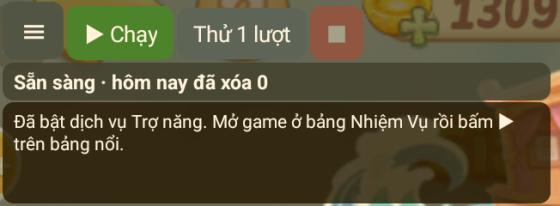
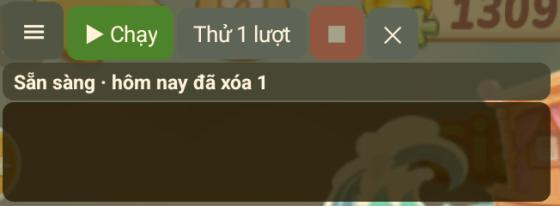
Bảng nổi: nút ✕ để đóng, nút Hiện bảng nổi trong app để mở lại
Bảng nổi hiện đè lên mọi màn hình, kể cả khi đã thoát game. Nút ✕ đóng nó (dừng bot
nếu đang chạy, vì bảng nổi giữ màn hình sáng cho bot); trạng thái đóng được nhớ qua các
lần dịch vụ khởi động lại. Mở lại bằng nút Hiện bảng nổi ở đầu màn hình chính của app.
Trang hướng dẫn cập nhật theo.

diff --git a/android/app/src/main/java/vn/hoavien/auto/BotService.kt b/android/app/src/main/java/vn/hoavien/auto/BotService.kt
@@ -87,9 +87,10 @@ class BotService : AccessibilityService() {
         bot = Bot(this)
         probes = Probes(this)
         overlay = Overlay(this).also { it.show() }
+        applyOverlayVisibility()
         instance = this
         AppLog.i("Đã bật dịch vụ Trợ năng. Mở game ở bảng Nhiệm Vụ rồi bấm ▶ trên bảng nổi.")
-        if (prefs.running) {
+        if (prefs.running && !prefs.overlayClosed) {
             AppLog.i("Tiếp tục chạy (dịch vụ vừa khởi động lại).")
             startBot()
         } else {
@@ -137,7 +138,8 @@ class BotService : AccessibilityService() {
             main.post {
                 if (job === j) {
                     onJobChanged(null)
-                    BotStatus.set("Đã dừng · hôm nay đã xóa ${prefs.deletedToday()}")
+                    val what = if (prefs.overlayClosed) "Bảng nổi đã đóng" else "Đã dừng"
+                    BotStatus.set("$what · hôm nay đã xóa ${prefs.deletedToday()}")
                 }
             }
         }
@@ -185,9 +187,41 @@ class BotService : AccessibilityService() {
         AppLog.i("Đã tắt dịch vụ Trợ năng.")
     }
 
-    /** Ẩn bảng nổi khi màn hình chính của app đang mở (để không che nội dung), hiện lại khi rời đi. */
-    fun setOverlayVisible(visible: Boolean) {
-        overlay?.setVisible(visible)
+    private var appScreenOpen = false       // màn hình chính của app đang mở: ẩn bảng nổi để không che nội dung
+    private var overlayTempHidden = false   // ẩn tạm (bài thử kiểm tra bảng nổi có lọt vào ảnh chụp không)
+
+    private fun applyOverlayVisibility() {
+        overlay?.setVisible(!prefs.overlayClosed && !appScreenOpen && !overlayTempHidden)
+    }
+
+    fun setAppScreenOpen(open: Boolean) {
+        appScreenOpen = open
+        applyOverlayVisibility()
+    }
+
+    fun setOverlayTempHidden(hidden: Boolean) {
+        overlayTempHidden = hidden
+        applyOverlayVisibility()
+    }
+
+    /** Nút ✕: đóng bảng nổi. Bảng nổi giữ màn hình sáng cho bot nên đóng nó thì dừng bot luôn. */
+    fun closeOverlay() {
+        if (job?.isActive == true) {
+            stopJob()
+            AppLog.i("Đã đóng bảng nổi và dừng bot. Mở lại bằng nút Hiện bảng nổi trong app.")
+        } else {
+            AppLog.i("Đã đóng bảng nổi. Mở lại bằng nút Hiện bảng nổi trong app.")
+        }
+        prefs.overlayClosed = true
+        applyOverlayVisibility()
+        BotStatus.set("Bảng nổi đã đóng · hôm nay đã xóa ${prefs.deletedToday()}")
+    }
+
+    /** Nút Hiện bảng nổi trong app. */
+    fun reopenOverlay() {
+        prefs.overlayClosed = false
+        applyOverlayVisibility()
+        BotStatus.set("Sẵn sàng · hôm nay đã xóa ${prefs.deletedToday()}")
     }
 
     /** Vùng nút ≡ của bảng nổi trên màn hình, để kiểm tra bảng nổi có lọt vào ảnh chụp không. */

diff --git a/android/app/src/main/java/vn/hoavien/auto/MainActivity.kt b/android/app/src/main/java/vn/hoavien/auto/MainActivity.kt
@@ -49,6 +49,11 @@ class MainActivity : Activity() {
             startActivity(Intent(Settings.ACTION_APPLICATION_DETAILS_SETTINGS, Uri.fromParts("package", packageName, null)))
         }
         findViewById<View>(R.id.allowNotify).setOnClickListener { askNotifications() }
+        findViewById<View>(R.id.reopenOverlay).setOnClickListener {
+            BotService.instance?.reopenOverlay()
+            Toast.makeText(this, "Bảng nổi sẽ hiện khi bạn rời màn hình này", Toast.LENGTH_SHORT).show()
+            showSteps()
+        }
         findViewById<View>(R.id.openGame).setOnClickListener {
             val launch = packageManager.getLaunchIntentForPackage(GAME_PACKAGE)
             if (launch != null) startActivity(launch)
@@ -84,7 +89,7 @@ class MainActivity : Activity() {
 
     override fun onResume() {
         super.onResume()
-        BotService.instance?.setOverlayVisible(false)
+        BotService.instance?.setAppScreenOpen(true)
         showSteps()
         showStatus()
         AppLog.addListener(logListener)
@@ -95,7 +100,7 @@ class MainActivity : Activity() {
     override fun onPause() {
         BotService.instance?.let {
             it.refreshOverlay()
-            it.setOverlayVisible(true)
+            it.setAppScreenOpen(false)
         }
         AppLog.removeListener(logListener)
         BotStatus.removeListener(statusListener)
@@ -121,6 +126,7 @@ class MainActivity : Activity() {
         // "Cài đặt bị hạn chế" chỉ có từ Android 13, với app cài từ file APK.
         val restricted = !a11y && Build.VERSION.SDK_INT >= Build.VERSION_CODES.TIRAMISU
         for (id in listOf(R.id.restrictedHint, R.id.openAppInfo)) findViewById<View>(id).visibility = if (restricted) View.VISIBLE else View.GONE
+        findViewById<View>(R.id.reopenOverlay).visibility = if (a11y && prefs.overlayClosed) View.VISIBLE else View.GONE
         mark(R.id.step2, notify)
         findViewById<View>(R.id.allowNotify).visibility = if (notify) View.GONE else View.VISIBLE
     }

diff --git a/huong_dan/index.html b/huong_dan/index.html
@@ -159,12 +159,13 @@
       <h2>Chạy bot</h2>
       <p>Mở game, vào <span class="path">Đấu hội → bảng Nhiệm Vụ</span> (nút Mở game trong app mở thẳng game). Dùng bảng nút nhỏ ở mép trên màn hình:</p>
     </div>
-    <figure class="wide"><img src="anh/bang_noi.jpg" alt="Bảng nổi gồm nút ba gạch, nút Chạy màu xanh, nút Thử 1 lượt, nút dừng màu đỏ, dòng trạng thái và vài dòng nhật ký" width="560" height="206"><figcaption>Bảng nổi nằm trên tiêu đề game, không che bảng Nhiệm Vụ.</figcaption></figure>
+    <figure class="wide"><img src="anh/bang_noi.jpg" alt="Bảng nổi gồm nút ba gạch, nút Chạy màu xanh, nút Thử 1 lượt, nút dừng màu đỏ, nút đóng, dòng trạng thái và ô nhật ký" width="560" height="206"><figcaption>Bảng nổi nằm trên tiêu đề game, không che bảng Nhiệm Vụ.</figcaption></figure>
     <div class="buttons">
       <div><span class="k">Thử 1 lượt</span><p>Quét một lượt và chỉ báo những nhiệm vụ sẽ xóa, không xóa thật. Nên bấm cái này trước tiên để xem app đọc đúng không.</p></div>
       <div><span class="k">▶ Chạy</span><p>Quét cả danh sách, xóa nhiệm vụ có điểm ≤ 12, rồi tự lặp lại mỗi 15 phút. Đổi hai con số này trong mục Cài đặt của app.</p></div>
       <div><span class="k">■</span><p>Dừng. Bấm ■ thì app không tự chạy lại nữa.</p></div>
       <div><span class="k">≡</span><p>Kéo để dời bảng nổi; chạm để thu gọn hoặc mở rộng.</p></div>
+      <div><span class="k">✕</span><p>Đóng bảng nổi khi không dùng (bot đang chạy cũng dừng theo). Muốn hiện lại thì mở app Hoa Viên Auto, bấm <span class="ui">Hiện bảng nổi</span>.</p></div>
     </div>
   </section>
 

diff --git a/android/app/src/main/java/vn/hoavien/auto/Overlay.kt b/android/app/src/main/java/vn/hoavien/auto/Overlay.kt
@@ -92,7 +92,8 @@ class Overlay(private val svc: BotService) {
         for (b in actions) row.addView(b, margins())
         stopButton = chip("■", 0xFFC62828.toInt()) { svc.stopJob() }.also { row.addView(it, margins()) }
         moreButton = chip("⋯", 0xFF455A64.toInt()) { setProbesShown(!probesShown) }.also { row.addView(it, margins()) }
-        extras += actions + stopButton + moreButton
+        val close = chip("✕", 0xFF455A64.toInt()) { svc.closeOverlay() }.also { row.addView(it, margins()) }
+        extras += actions + stopButton + moreButton + close
         root.addView(row)
 
         // Các bài thử từng thao tác (dùng khi cài lên máy mới), ẩn sau nút ⋯.

diff --git a/android/app/src/main/java/vn/hoavien/auto/App.kt b/android/app/src/main/java/vn/hoavien/auto/App.kt
@@ -58,6 +58,11 @@ class Prefs(context: Context) {
         get() = p.getBoolean("running", false)
         set(v) = p.edit().putBoolean("running", v).apply()
 
+    /** Người dùng đã đóng bảng nổi (nút ✕); mở lại bằng nút Hiện bảng nổi trong app. */
+    var overlayClosed: Boolean
+        get() = p.getBoolean("overlay_closed", false)
+        set(v) = p.edit().putBoolean("overlay_closed", v).apply()
+
     /** Vị trí bảng nổi người dùng đã kéo tới, -1 = mặc định. */
     var overlayX: Int
         get() = p.getInt("overlay_x", -1)

diff --git a/android/app/src/main/java/vn/hoavien/auto/Probes.kt b/android/app/src/main/java/vn/hoavien/auto/Probes.kt
@@ -113,12 +113,12 @@ class Probes(private val svc: BotService) {
      *  bảng nổi hơi trong suốt nên màu trong ảnh bị trộn với game phía sau.) */
     private suspend fun overlayInShotCheck() {
         val box = svc.overlayHandle() ?: return
-        svc.setOverlayVisible(false)
+        svc.setOverlayTempHidden(true)
         val hidden = try {
             delay(200)
             shot()
         } finally {
-            svc.setOverlayVisible(true)
+            svc.setOverlayTempHidden(false)
         }
         delay(200)
         val shown = shot()
